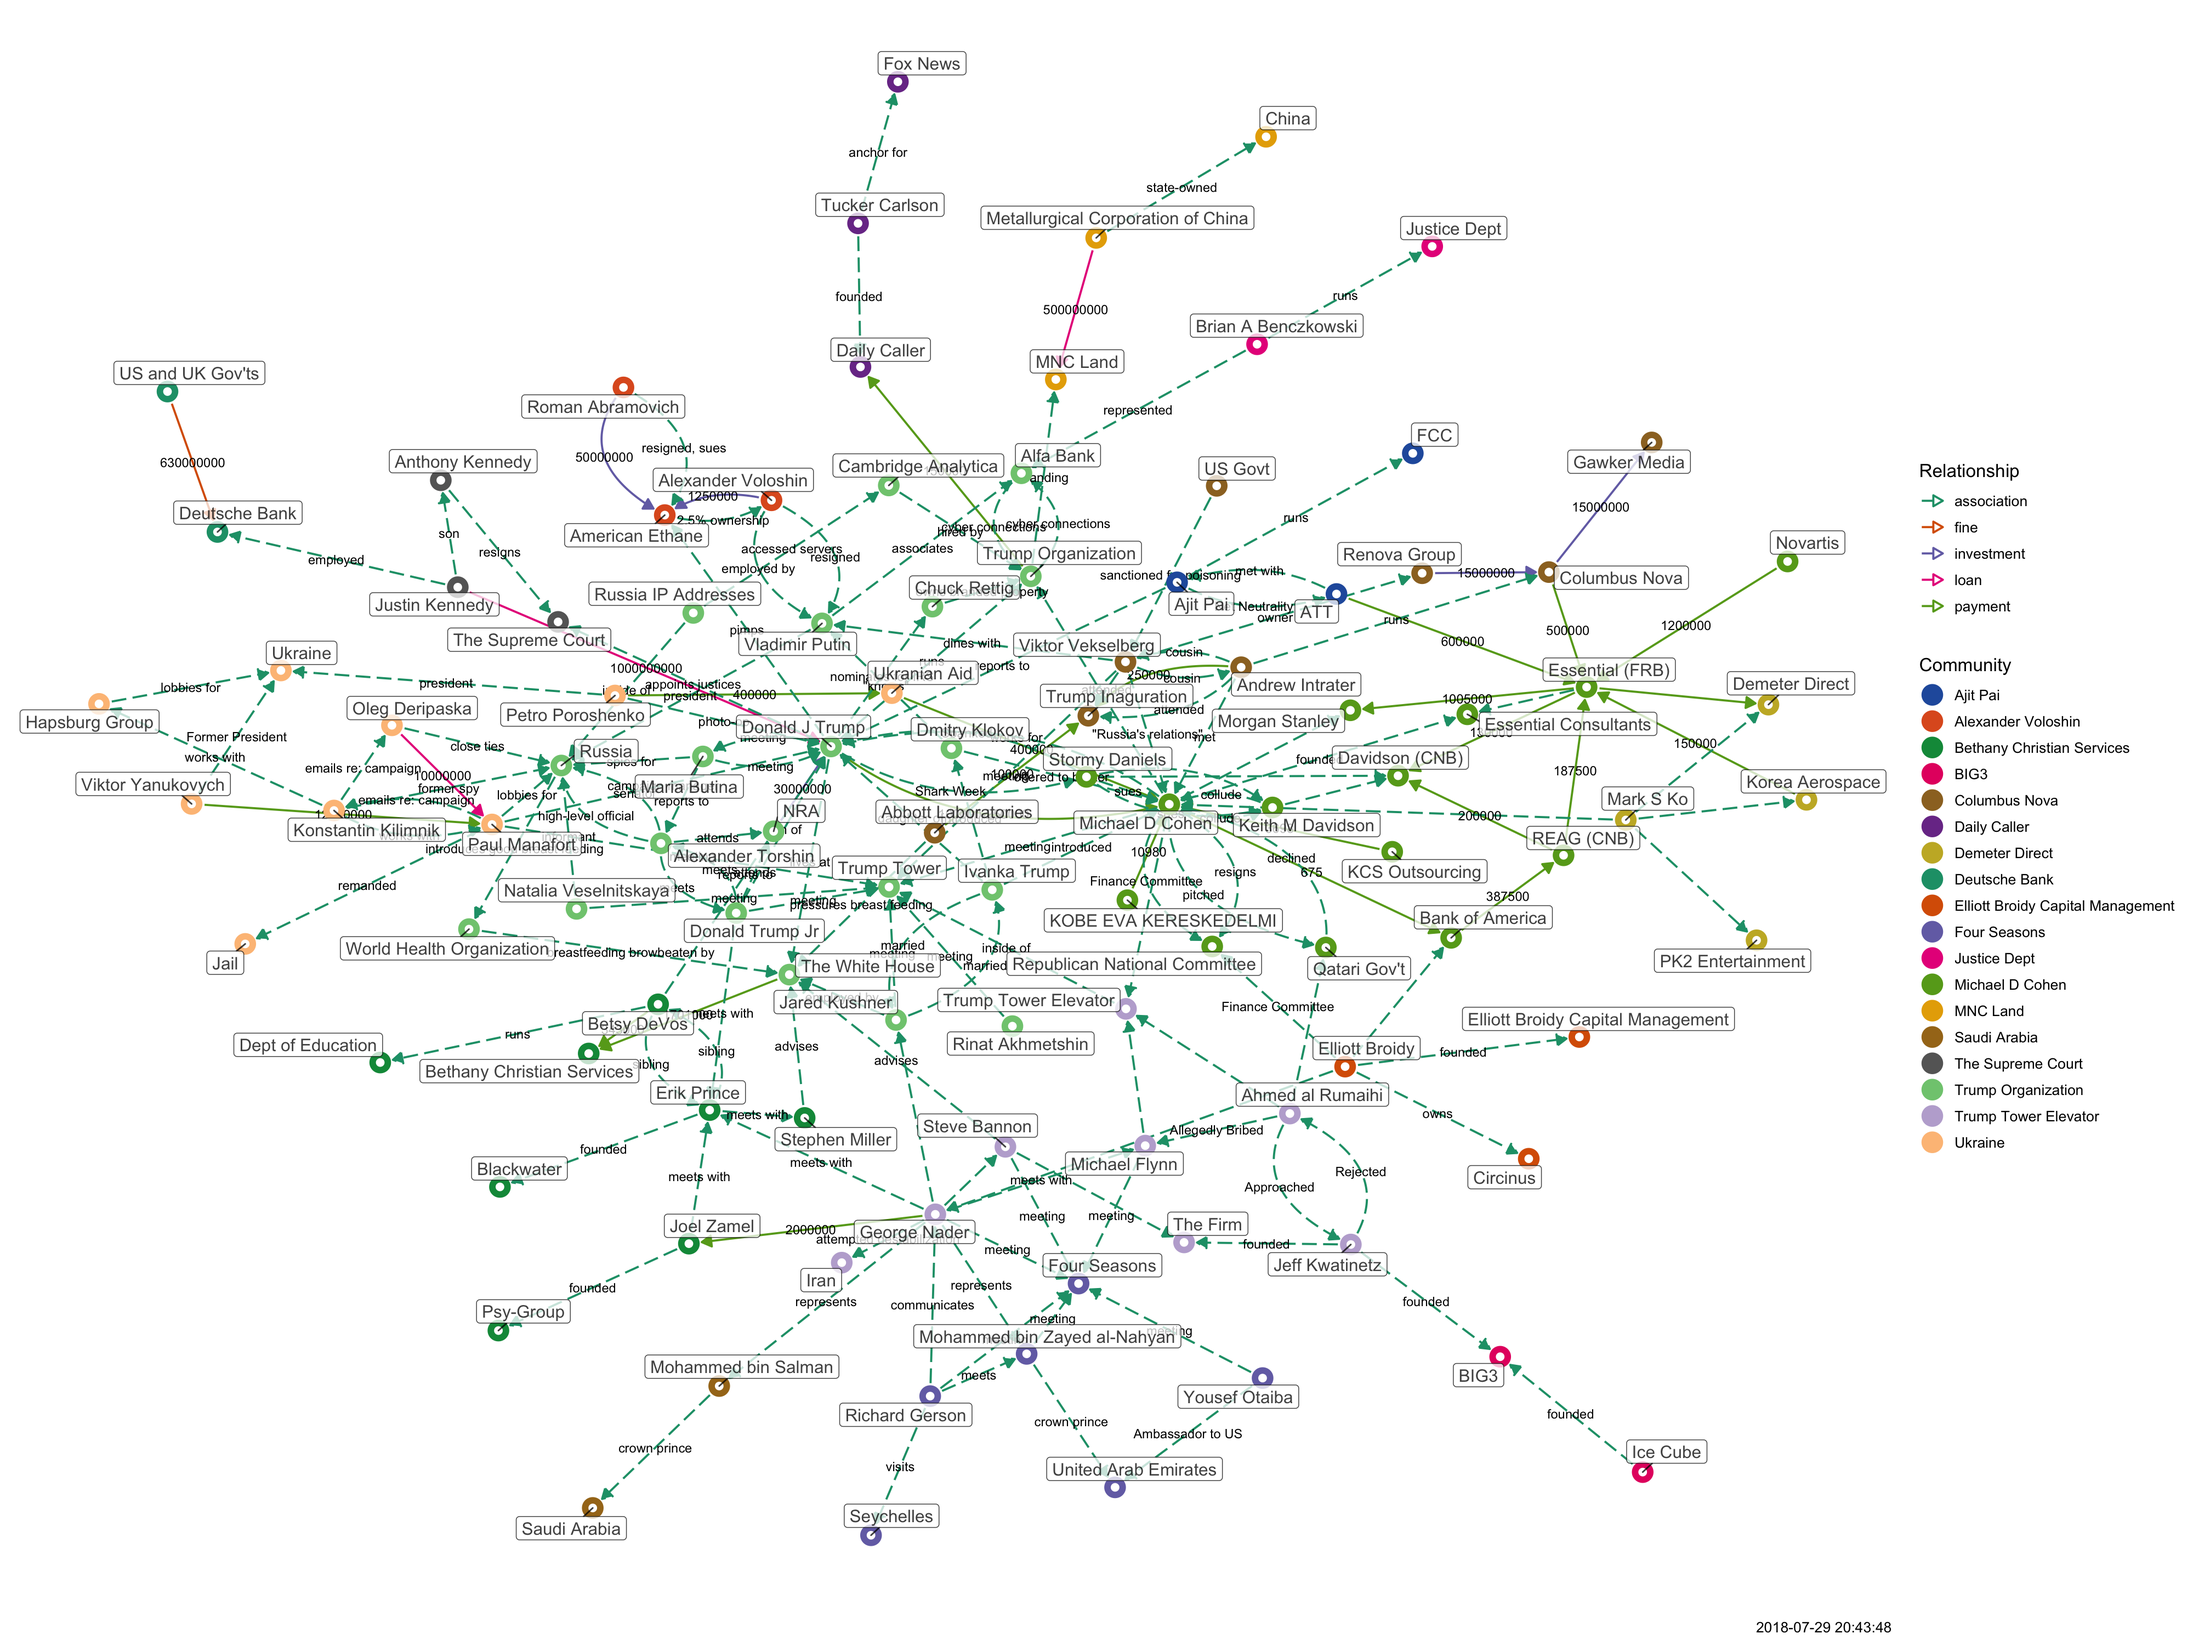
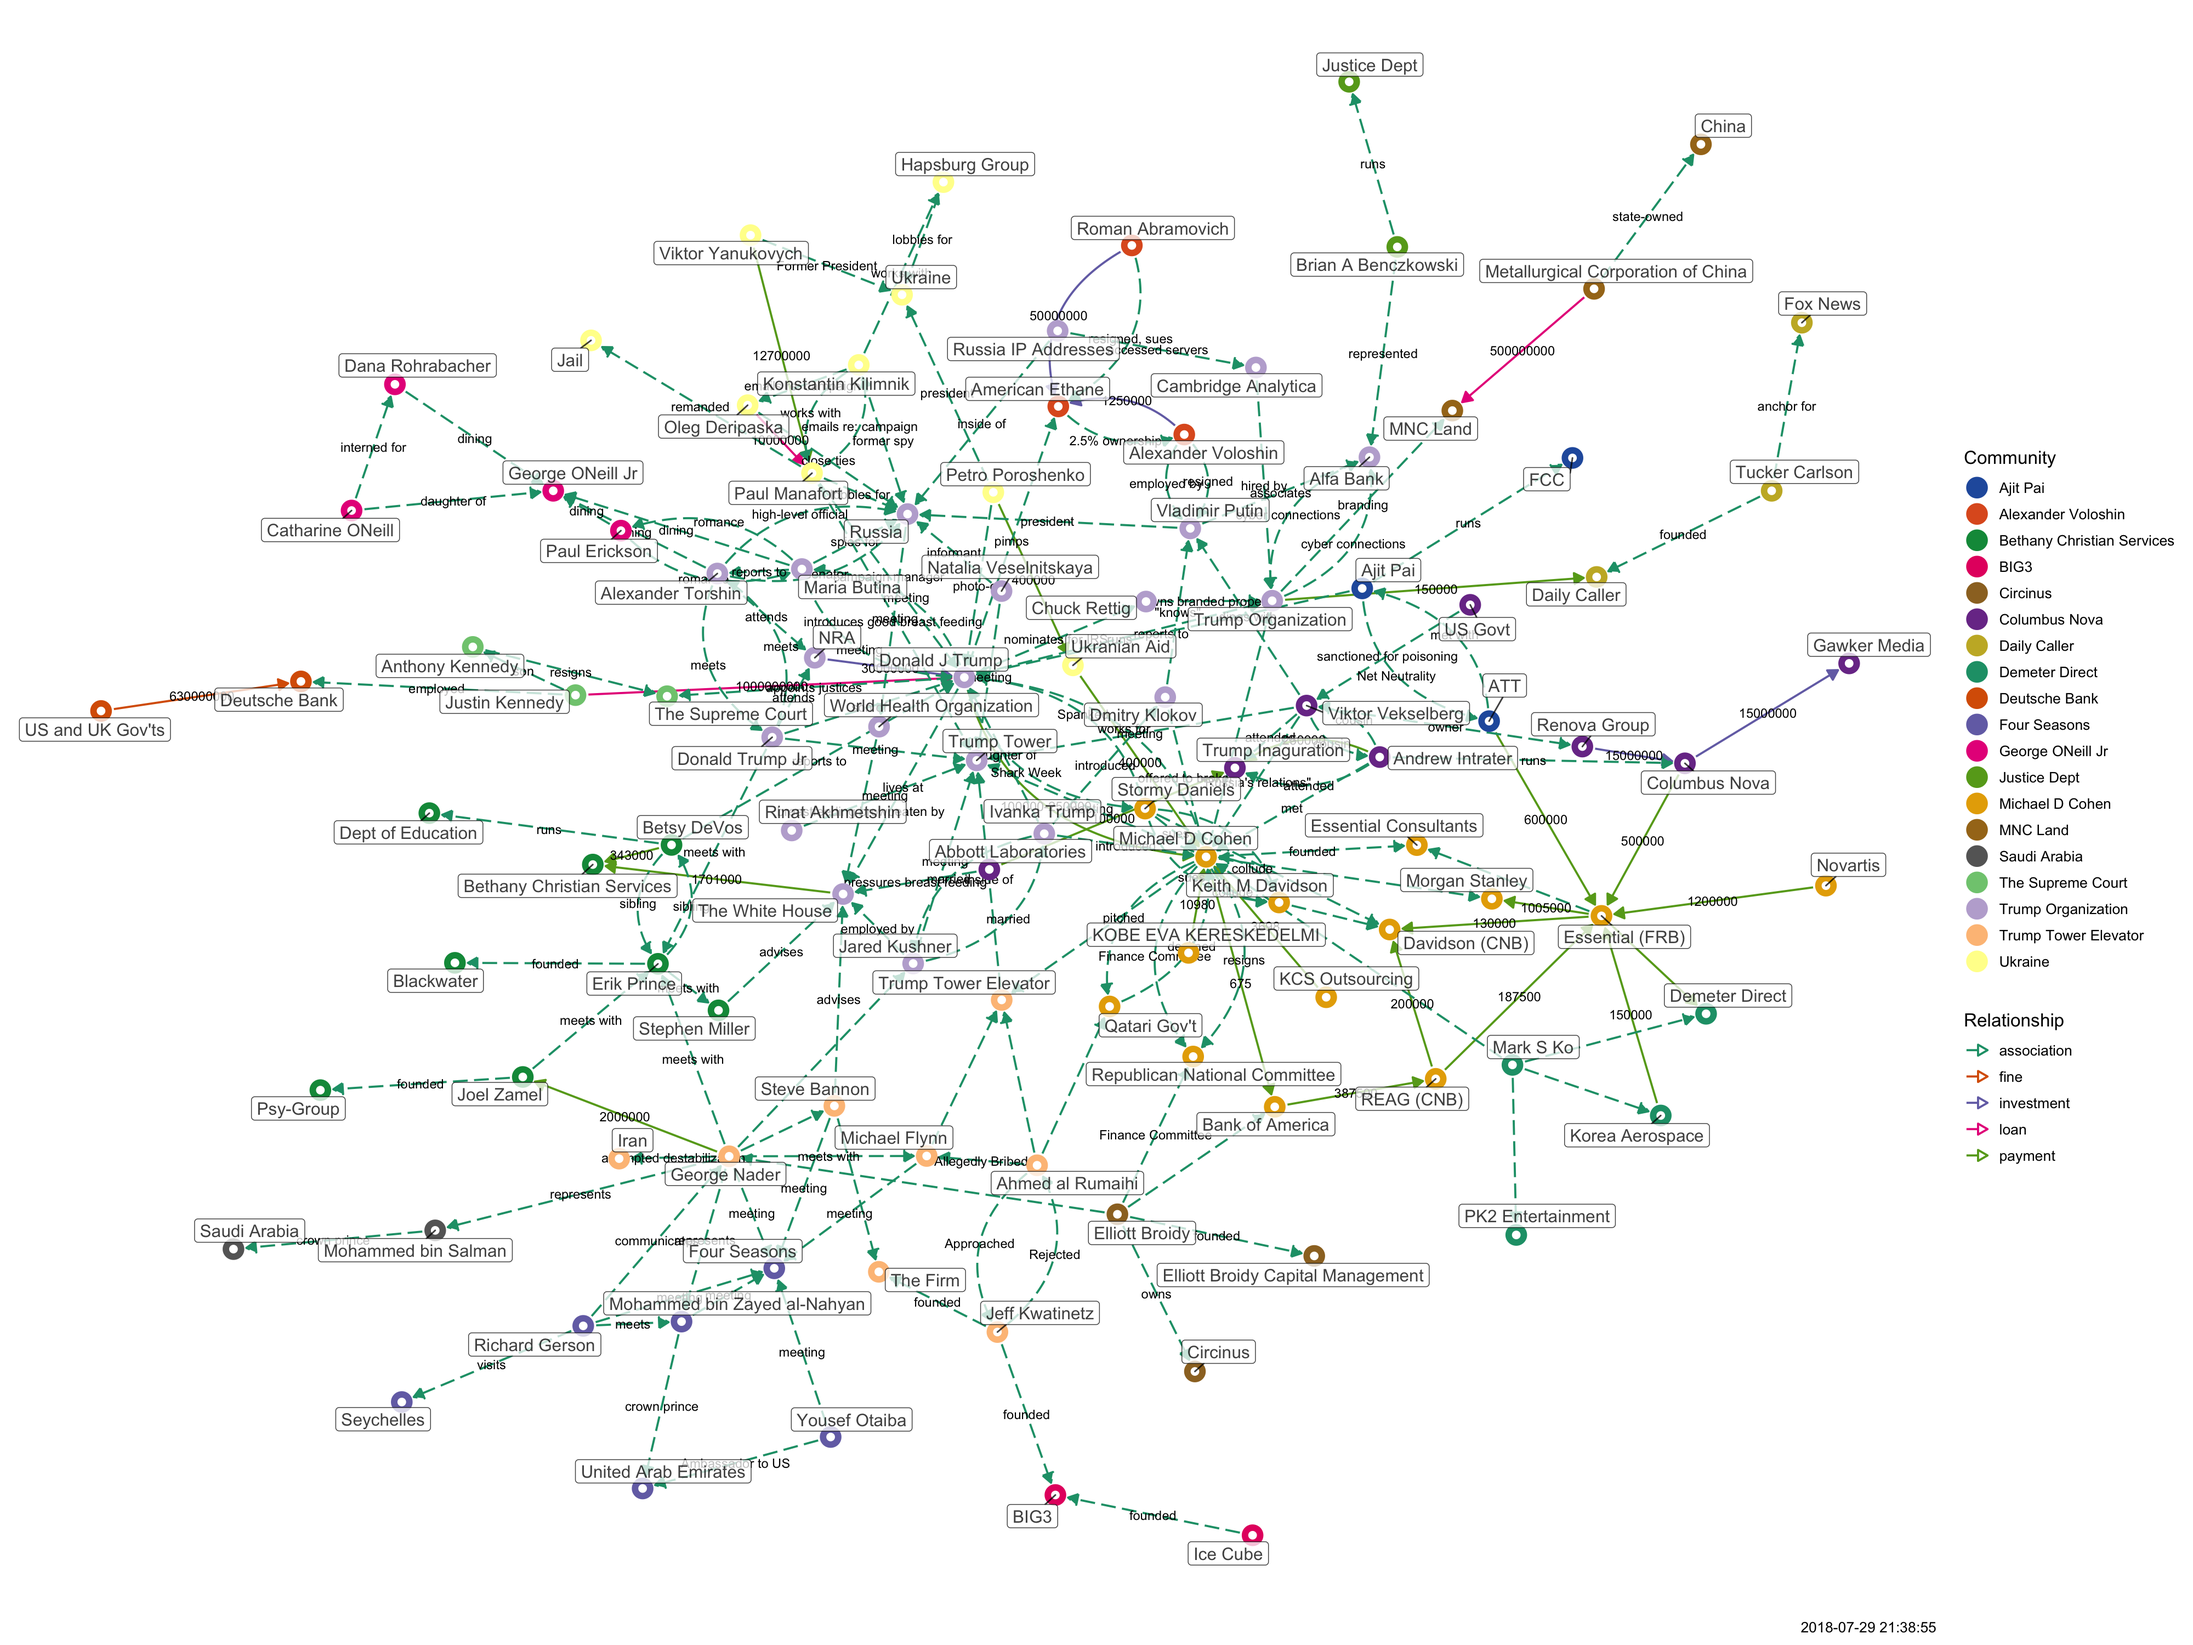
updated

diff --git a/docs/tangled-d3.html b/docs/tangled-d3.html
@@ -1143,11 +1143,11 @@ return function(){for(var n=0,e=0;e<t;++e)n+=Math.random();return n}},um=functio
 </head>
 <body style="background-color: white;">
 <div id="htmlwidget_container">
-<div id="htmlwidget-2fe6ea73baddd459a57f" class="forceNetwork html-widget" style="width:960px;height:500px;">
+<div id="htmlwidget-68b20fa3850b459c5adf" class="forceNetwork html-widget" style="width:960px;height:500px;">
 
 </div>
 </div>
-<script type="application/json" data-for="htmlwidget-2fe6ea73baddd459a57f">{"x":{"links":{"source":[0,1,2,3,4,5,6,6,7,8,8,8,9,10,11,12,13,14,15,16,17,18,19,20,20,21,22,23,24,25,26,27,8,15,2,2,28,2,28,28,2,29,15,30,31,31,28,32,32,32,32,15,7,7,31,15,15,33,33,33,33,7,15,34,35,35,36,37,36,36,38,35,35,39,39,39,3,38,32,9,9,40,40,41,41,15,42,43,43,9,44,45,46,9,9,47,48,46,49,45,9,9,44,46,5,5,5,24,14,19,19,15,28,28,50,51,51,51,51,9,48,34,38,52,52,41,41,53,53,31,31,15,30,54,55,54,56,57,56,54,56,56,44,40,58,59,59,27,18,56,54,7,60,15,61,10,10,7,0,62,63,7,1,1,64,22,65,65,57,66,24,67,68,68,69,7,69,69,70,70,44,44,70,70],"target":[71,64,71,8,20,72,8,73,15,74,75,76,45,7,15,15,8,77,4,8,7,56,25,74,8,6,64,72,78,15,79,56,80,80,6,15,21,28,2,71,71,28,7,74,74,30,57,81,82,83,4,76,23,31,7,24,81,75,84,15,13,24,50,50,50,36,35,85,86,85,86,42,34,3,7,87,39,23,9,38,40,23,41,40,7,42,15,78,88,46,46,46,89,48,47,90,91,49,23,92,34,93,7,5,46,94,7,77,95,7,96,97,97,15,97,98,48,9,99,99,99,99,99,99,91,15,53,15,57,30,15,30,15,55,96,56,63,63,7,63,100,97,97,97,97,97,63,96,63,54,18,60,24,81,101,61,79,101,23,23,62,64,57,57,1,64,66,102,66,24,66,24,67,63,7,69,63,70,63,44,70,17,17,63],"colour":["red","blue","red","red","red","red","red","blue","red","red","red","red","red","blue","red","red","red","blue","red","red","blue","blue","red","red","red","blue","blue","red","red","red","blue","red","blue","blue","blue","blue","blue","blue","blue","blue","blue","blue","blue","blue","blue","blue","blue","blue","blue","blue","blue","blue","blue","blue","blue","blue","blue","blue","blue","blue","blue","blue","blue","blue","blue","blue","blue","blue","blue","blue","blue","blue","blue","blue","blue","blue","blue","blue","blue","blue","blue","blue","blue","blue","blue","blue","blue","blue","blue","blue","blue","blue","blue","blue","blue","blue","blue","blue","blue","blue","blue","blue","blue","blue","blue","blue","blue","blue","blue","blue","blue","blue","blue","blue","blue","blue","blue","blue","blue","blue","blue","blue","blue","blue","blue","blue","blue","blue","blue","blue","blue","blue","blue","blue","blue","blue","blue","blue","blue","blue","blue","blue","blue","blue","blue","blue","blue","blue","blue","blue","blue","blue","blue","blue","blue","blue","blue","blue","blue","blue","blue","blue","blue","blue","blue","blue","blue","blue","blue","blue","blue","blue","blue","blue","blue","blue","blue","blue","blue","blue","blue","blue","blue","blue"]},"nodes":{"name":["Abbott Laboratories","Alexander Voloshin","Andrew Intrater","ATT","Bank of America","Betsy DeVos","Columbus Nova","Donald J Trump","Essential (FRB)","George Nader","Justin Kennedy","KCS Outsourcing","KOBE EVA KERESKEDELMI","Korea Aerospace","Metallurgical Corporation of China","Michael D Cohen","Novartis","NRA","Oleg Deripaska","Petro Poroshenko","REAG (CNB)","Renova Group","Roman Abramovich","The White House","Trump Organization","Ukranian Aid","US and UK Gov'ts","Viktor Yanukovych","Viktor Vekselberg","US Govt","Keith M Davidson","Stormy Daniels","Elliott Broidy","Mark S Ko","Michael Flynn","Ahmed al Rumaihi","Jeff Kwatinetz","Ice Cube","Steve Bannon","Ajit Pai","Jared Kushner","Ivanka Trump","Qatari Gov't","Tucker Carlson","Donald Trump Jr","Joel Zamel","Erik Prince","Mohammed bin Salman","Mohammed bin Zayed al-Nahyan","Stephen Miller","Trump Tower Elevator","Richard Gerson","Yousef Otaiba","Dmitry Klokov","Konstantin Kilimnik","Hapsburg Group","Paul Manafort","Vladimir Putin","Rinat Akhmetshin","Natalia Veselnitskaya","Chuck Rettig","Anthony Kennedy","World Health Organization","Russia","American Ethane","Brian A Benczkowski","Alfa Bank","Cambridge Analytica","Russia IP Addresses","Maria Butina","Alexander Torshin","Trump Inaguration","Bethany Christian Services","Gawker Media","Davidson (CNB)","Demeter Direct","Morgan Stanley","MNC Land","Daily Caller","Deutsche Bank","Essential Consultants","Republican National Committee","Elliott Broidy Capital Management","Circinus","PK2 Entertainment","BIG3","The Firm","FCC","Fox News","Blackwater","Saudi Arabia","United Arab Emirates","Psy-Group","Iran","Dept of Education","China","Ukraine","Trump Tower","Seychelles","Four Seasons","Jail","The Supreme Court","Justice Dept"],"group":["5","14","5","12","2","4","5","1","2","6","13","2","2","9","11","2","2","1","3","3","2","5","14","1","1","3","19","3","5","5","2","2","15","9","6","6","6","18","6","12","1","1","2","10","1","4","4","16","7","4","6","7","7","1","3","3","3","1","1","1","1","13","1","1","14","17","1","1","1","1","1","5","4","5","2","9","2","11","10","19","2","2","15","15","9","18","6","12","10","4","16","7","4","6","4","11","3","1","7","7","3","13","17"]},"options":{"NodeID":"name","Group":"group","colourScale":"d3.scaleOrdinal(d3.schemeCategory20);","fontSize":20,"fontFamily":"serif","clickTextSize":50,"linkDistance":50,"linkWidth":"function(d) { return Math.sqrt(d.value); }","charge":-100,"opacity":1,"zoom":true,"legend":false,"arrows":false,"nodesize":false,"radiusCalculation":" Math.sqrt(d.nodesize)+6","bounded":false,"opacityNoHover":1,"clickAction":null}},"evals":[],"jsHooks":[]}</script>
-<script type="application/htmlwidget-sizing" data-for="htmlwidget-2fe6ea73baddd459a57f">{"viewer":{"width":450,"height":350,"padding":10,"fill":true},"browser":{"width":960,"height":500,"padding":10,"fill":true}}</script>
+<script type="application/json" data-for="htmlwidget-68b20fa3850b459c5adf">{"x":{"links":{"source":[0,1,2,3,4,5,6,6,7,8,8,8,9,10,11,12,13,14,15,16,17,18,19,20,20,21,22,23,24,25,26,27,8,15,2,2,28,2,28,28,2,29,15,30,31,31,28,32,32,32,32,15,7,7,31,15,15,33,33,33,33,7,15,34,35,35,36,37,36,36,38,35,35,39,39,39,3,38,32,9,9,40,40,41,41,15,42,43,43,9,44,45,46,9,9,47,48,46,49,45,9,9,44,46,5,5,5,24,14,19,19,15,28,28,50,51,51,51,51,9,48,34,38,52,52,41,41,53,53,31,31,15,30,54,55,54,56,57,56,54,56,56,44,40,58,59,59,27,18,56,54,7,60,15,61,10,10,7,0,62,63,7,1,1,64,22,65,65,57,66,24,67,68,68,69,7,69,69,70,69,71,70,44,44,70,70,70,69,72,71,73,73],"target":[74,64,74,8,20,75,8,76,15,77,78,79,45,7,15,15,8,80,4,8,7,56,25,77,8,6,64,75,81,15,82,56,83,83,6,15,21,28,2,74,74,28,7,77,77,30,57,84,85,86,4,79,23,31,7,24,84,78,87,15,13,24,50,50,50,36,35,88,89,88,89,42,34,3,7,90,39,23,9,38,40,23,41,40,7,42,15,81,91,46,46,46,92,48,47,93,94,49,23,95,34,96,7,5,46,97,7,80,98,7,99,100,100,15,100,101,48,9,102,102,102,102,102,102,94,15,53,15,57,30,15,30,15,55,99,56,63,63,7,63,103,100,100,100,100,100,63,99,63,54,18,60,24,84,104,61,82,104,23,23,62,64,57,57,1,64,66,105,66,24,66,24,67,63,7,69,63,70,63,71,69,44,70,17,17,63,106,106,106,106,106,72],"colour":["red","blue","red","red","red","red","red","blue","red","red","red","red","red","blue","red","red","red","blue","red","red","blue","blue","red","red","red","blue","blue","red","red","red","blue","red","blue","blue","blue","blue","blue","blue","blue","blue","blue","blue","blue","blue","blue","blue","blue","blue","blue","blue","blue","blue","blue","blue","blue","blue","blue","blue","blue","blue","blue","blue","blue","blue","blue","blue","blue","blue","blue","blue","blue","blue","blue","blue","blue","blue","blue","blue","blue","blue","blue","blue","blue","blue","blue","blue","blue","blue","blue","blue","blue","blue","blue","blue","blue","blue","blue","blue","blue","blue","blue","blue","blue","blue","blue","blue","blue","blue","blue","blue","blue","blue","blue","blue","blue","blue","blue","blue","blue","blue","blue","blue","blue","blue","blue","blue","blue","blue","blue","blue","blue","blue","blue","blue","blue","blue","blue","blue","blue","blue","blue","blue","blue","blue","blue","blue","blue","blue","blue","blue","blue","blue","blue","blue","blue","blue","blue","blue","blue","blue","blue","blue","blue","blue","blue","blue","blue","blue","blue","blue","blue","blue","blue","blue","blue","blue","blue","blue","blue","blue","blue","blue","blue","blue","blue","blue","blue","blue","blue","blue","blue","blue"]},"nodes":{"name":["Abbott Laboratories","Alexander Voloshin","Andrew Intrater","ATT","Bank of America","Betsy DeVos","Columbus Nova","Donald J Trump","Essential (FRB)","George Nader","Justin Kennedy","KCS Outsourcing","KOBE EVA KERESKEDELMI","Korea Aerospace","Metallurgical Corporation of China","Michael D Cohen","Novartis","NRA","Oleg Deripaska","Petro Poroshenko","REAG (CNB)","Renova Group","Roman Abramovich","The White House","Trump Organization","Ukranian Aid","US and UK Gov'ts","Viktor Yanukovych","Viktor Vekselberg","US Govt","Keith M Davidson","Stormy Daniels","Elliott Broidy","Mark S Ko","Michael Flynn","Ahmed al Rumaihi","Jeff Kwatinetz","Ice Cube","Steve Bannon","Ajit Pai","Jared Kushner","Ivanka Trump","Qatari Gov't","Tucker Carlson","Donald Trump Jr","Joel Zamel","Erik Prince","Mohammed bin Salman","Mohammed bin Zayed al-Nahyan","Stephen Miller","Trump Tower Elevator","Richard Gerson","Yousef Otaiba","Dmitry Klokov","Konstantin Kilimnik","Hapsburg Group","Paul Manafort","Vladimir Putin","Rinat Akhmetshin","Natalia Veselnitskaya","Chuck Rettig","Anthony Kennedy","World Health Organization","Russia","American Ethane","Brian A Benczkowski","Alfa Bank","Cambridge Analytica","Russia IP Addresses","Maria Butina","Alexander Torshin","Paul Erickson","Dana Rohrabacher","Catharine ONeill","Trump Inaguration","Bethany Christian Services","Gawker Media","Davidson (CNB)","Demeter Direct","Morgan Stanley","MNC Land","Daily Caller","Deutsche Bank","Essential Consultants","Republican National Committee","Elliott Broidy Capital Management","Circinus","PK2 Entertainment","BIG3","The Firm","FCC","Fox News","Blackwater","Saudi Arabia","United Arab Emirates","Psy-Group","Iran","Dept of Education","China","Ukraine","Trump Tower","Seychelles","Four Seasons","Jail","The Supreme Court","Justice Dept","George ONeill Jr"],"group":["5","14","5","12","2","4","5","1","2","6","13","2","2","9","11","2","2","1","3","3","2","5","14","1","1","3","19","3","5","5","2","2","15","9","6","6","6","18","6","12","1","1","2","10","1","4","4","16","7","4","6","7","7","1","3","3","3","1","1","1","1","13","1","1","14","17","1","1","1","1","1","8","8","8","5","4","5","2","9","2","11","10","19","2","2","15","15","9","18","6","12","10","4","16","7","4","6","4","11","3","1","7","7","3","13","17","8"]},"options":{"NodeID":"name","Group":"group","colourScale":"d3.scaleOrdinal(d3.schemeCategory20);","fontSize":20,"fontFamily":"serif","clickTextSize":50,"linkDistance":50,"linkWidth":"function(d) { return Math.sqrt(d.value); }","charge":-100,"opacity":1,"zoom":true,"legend":false,"arrows":false,"nodesize":false,"radiusCalculation":" Math.sqrt(d.nodesize)+6","bounded":false,"opacityNoHover":1,"clickAction":null}},"evals":[],"jsHooks":[]}</script>
+<script type="application/htmlwidget-sizing" data-for="htmlwidget-68b20fa3850b459c5adf">{"viewer":{"width":450,"height":350,"padding":10,"fill":true},"browser":{"width":960,"height":500,"padding":10,"fill":true}}</script>
 </body>
 </html>
